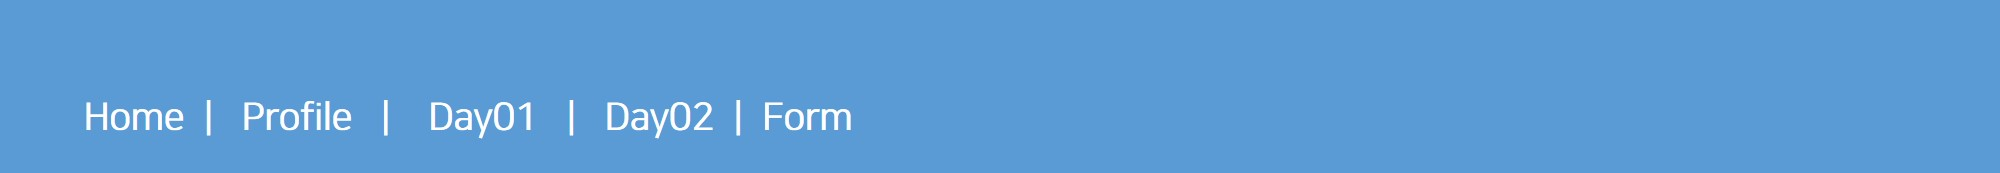
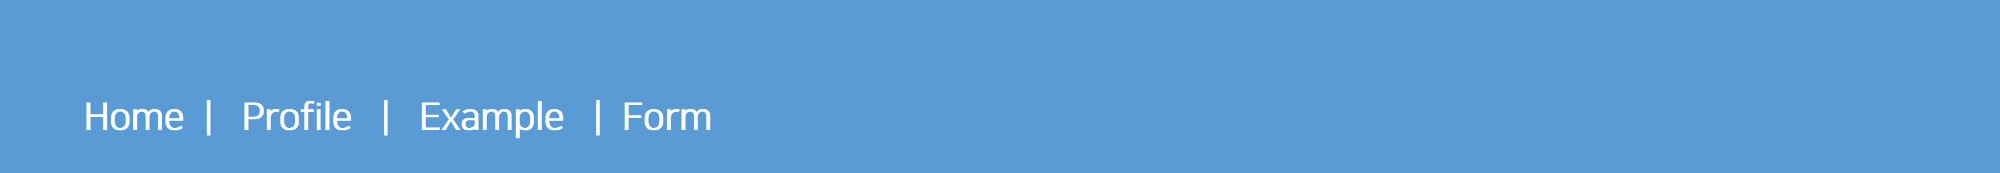
2019-07-23 Uhm's class

Changed region(s): [[0.186, 0.578, 0.434, 0.7803]]

diff --git a/webbasic/WebContent/form.html b/webbasic/WebContent/form.html
@@ -1,0 +1,101 @@
+<!doctype html>
+<html> 
+    <head>
+         <meta charset = "utf-8">
+         <title>입력폼</title>
+    </head>
+    <body>
+<img src = "img/menu.jpg" alt = "메뉴판" usemap = "#favorites">
+<map name = "favorites">
+   <area shape = "rect" coords = "62,94,191,150" href="index.html" alt="홈">
+   <area shape = "rect" coords = "233,94,366,150" href="profile.html" alt="홈">
+   <area shape = "rect" coords = "412,94,545,150" href="day01.html" alt="홈">
+   <area shape = "rect" coords = "592,94,710,150" href="day02.html" alt="홈">
+</map>
+
+<form>
+  <fieldset>
+    <legend>로그인 정보</legend>
+    <table>
+      <tr>
+        <td align=right><label for="user-id" >아이디 </label></td>
+        <td><input type="text" id="user-id" placeholder= "아이디입력" readonly="readonly"></td>
+      </tr>
+      <tr>
+        <td align=right><label for="pwd1" >비밀번호 </label></td>
+        <td><input type="password" id="pwd1"></td>
+      </tr>
+      <tr>
+        <td  align=right><label for="pwd2">비밀번호확인 </label></td>
+        <td><input type="password" id="pwd2"></td>
+      </tr>
+    </table>
+  </fieldset>
+  <fieldset>
+    <legend>개인 정보</legend>
+    <ul>
+      <li>
+        <label for="user-name">이름 </label>
+        <input type="text" id="user-name" autofocus required>
+      </li>
+      <li>
+        <label for="mail">메일 주소</label>
+        <input type="email" id="mail">
+      </li>
+      <li>
+        <label for="phone">연락처</label>
+        <input type="tel" id="phone">
+      </li>
+      <li>
+        <label for="homep">블로그/홈페이지</label>
+        <input type="url" id="homep">
+      </li>
+    </ul>
+  </fieldset>
+<input type="search">  <input type="submit" value="검색">
+<input type="submit" value="가입하기">
+<br>
+<label> 주문갯수 1: <input type="number" min = 1 max = 5 value = 1></label>
+<br>
+<label> 주문갯수 2: <input type="range" min = 1 max = 5></label>
+
+<fieldset>
+<legend>신청 과목 </legend>
+<label>신청할 과목 선택(1과목) </label><br>
+<input type="radio" name="subject" value="speaking">회화 
+<input type="radio" name="subject" value="grammar">문법
+<input type="radio" name="subject" value="writing">작문
+</fieldset>
+
+<fieldset>
+<legend>메일링 </legend>
+<label>메일수신할 뉴스주제(중복가능) </label><br>
+<input type="checkbox" name="mailing1" value="news">해외단신 
+<input type="checkbox" name="mailing2" value="dialog">5분회화
+<input type="checkbox" name="mailing3" value="pops">모닝팝스
+</fieldset>
+<input type = "color"><br>
+조회기간 : <input type = "date" id = "start"> ~ <input type = "date" id = "end"> 
+<br>
+조회시간 : <input type = "time" id = "start1"> ~ <input type = "time" id = "end1">
+<input type = "image" src = "img/btn1.jpg"> 
+
+<select id = "class">
+<optgroup label = "공과대학">
+     <option value="arch">건축공학과</option>
+     <option value="comp">컴퓨터공학과</option>
+     <option value="meca" selected>기계공학과</option>
+</optgroup>
+<optgroup label = "인문대학">
+     <option value="arch">건축공학과</option>
+     <option value="comp">컴퓨터공학과</option>
+     <option value="meca" selected>기계공학과</option>
+</optgroup>
+</select>
+<textarea cols=100 rows=10 id = "content"> </textarea>
+<progress value = 30 max = 100></progress>
+<meter value = 0.8></meter>
+</form>
+
+   </body>
+</html>

diff --git a/webbasic/WebContent/text-1.html b/webbasic/WebContent/text-1.html
@@ -1,0 +1,57 @@
+<!DOCTYPE html>
+<html lang="ko">
+<head>
+    <meta charset="utf-8">
+    <title>제주 이색 여행지</title>
+</head>
+<body>
+    <h1>제주 이색 여행지</h1>
+    <h2>야외 텐트를 닮은 건축물 <mark>"테쉬폰"</mark></h2>
+    <p><strong><i><q>아일랜드 출신 임피제 신부</i></q></strong>가 1954년 제주에 오면서 목장 숙소로 짓기 시작한 후 사료공장, 성당으로 활용됐습니다.</p>
+    <p>제주에서 점차 다른 지방으로 보급됐지만 현재 제주에만 건축물이 남아있는데, <br>
+    <span style = "color: blue;">국내 근현대 건축사의 한 페이지를 보여주는 가치를 지닌다</span>고 전문가들은 평가합니다.</p>
+    <hr>
+    <blockquote>
+      성이시돌목장은 제주특별자치도 제주시 한림읍 금악리에 있는 목장이다. 특히 이시돌목장은 제주 지역 최초의 <ruby>전기업목장(全企業牧場)<rt>제주시 한림읍 금악리</rt></ruby>으로 1961년 11월 말에 세워 양돈 사업을 실시하였으며 면양을 사육하였던 것으로 알려져 있다. 이시돌목장의 특색있는 건축양식으로 테쉬폰도 유명하다. (출처:향토문화전자대전)
+    </blockquote>
+<br>
+<hr>
+<a href = "https://blog.naver.com/ygboy031/220935887974" target = "_blank">
+<figure>
+     <img src = "img/spring.jpg">
+     <figcaption>봄사진 </figcaption>
+</figure>
+</a>
+<h2> 1박 2일 가족여행 코스 </h2>
+<dl>
+   <dt> 1일차 </dt>
+           <dd>해녀박물관 </dd>
+           <dd>낚시체험 </dd>      
+</dl>
+<table border = 1>
+<colgroup>
+     <col style = "width: 100px;">
+     <col style = "width: 100px;">
+     <col style = "width: 100px;">
+     <col style = "width: 100px;">
+</colgroup>
+<caption>
+자기소개 표
+</caption>
+    <tr>
+        <th>이름</th>
+        <td></td>
+        <th>연락처</th>
+        <td></td>     
+    </tr>
+    <tr>
+        <th>주소</th>
+        <td colspan = 3></td>
+    </tr>
+    <tr>
+        <th>자기소개</th>
+        <td colspan = 3></td>
+    </tr>
+</table>
+</body>
+</html>

diff --git a/webbasic/WebContent/day02.html b/webbasic/WebContent/day02.html
@@ -1,0 +1,32 @@
+<!doctype html>
+<html>
+    <head>
+        <meta charset = "utf-8">
+        <title> Day02 </title>    
+    </head>
+    <body>
+        <h1> 앵커만들기 </h1>
+         <p> 웹문서가 너무 긴 경우... </p>
+         <ul>
+              <li><a href = "#menu1">메뉴1</a></li>
+              <li><a href = "#menu2">메뉴2</a></li>
+              <li><a href = "#menu3">메뉴3</a></li>  
+<hr>
+<br><br><br><br><br><br>
+<br><br><br><br><br><br>    
+<h2 id = "menu1"> 메뉴1 </h2>
+<p>웹 문서가 너무 길어 앵커를 위치 시키려고 합니다. 웹 문서가 너무 길어 앵커를 위치 시키려고 합니다. 웹 문서가 너무 길어 앵커를 위치 시키려고 합니다. </p>
+
+<br><br><br><br><br><br>
+<br><br><br><br><br><br>    
+<h2 id = "menu2"> 메뉴2</h2>
+<p>웹 문서가 너무 길어 앵커를 위치 시키려고 합니다. 웹 문서가 너무 길어 앵커를 위치 시키려고 합니다. 웹 문서가 너무 길어 앵커를 위치 시키려고 합니다. </p>
+
+<br><br><br><br><br><br>  
+<br><br><br><br><br><br>  
+<h2 id = "menu3"> 메뉴3</h2>
+<p>웹 문서가 너무 길어 앵커를 위치 시키려고 합니다. 웹 문서가 너무 길어 앵커를 위치 시키려고 합니다. 웹 문서가 너무 길어 앵커를 위치 시키려고 합니다. </p>
+<br><br><br><br><br><br>  
+<br><br><br><br><br><br> 
+</body>
+</html>

diff --git a/webbasic/WebContent/text-3.html b/webbasic/WebContent/text-3.html
@@ -1,0 +1,19 @@
+<!DOCTYPE html>
+<html lang="ko">
+<head>
+    <meta charset="utf-8">
+    <title>제주 이색 여행지</title>
+    <style>
+        p { 
+            font-size:16px;  /* 글자 크기 */  
+            line-height:25px;  /* 줄 간격 */
+        }
+    </style>
+</head>
+<body>
+    <h2>제주 이색 여행지 - 이중섭 거리</h2>
+    <p><strong>주말</strong>마다 <b>'서귀포문화예술디자인시장'</b>이 열립니다.</p>
+    <p><em>'아트마켓'</em>이라고도 부르는데, <i>문화예술체험</i>이나 <i>공연관람</i>을 할 수도 있고 <br>
+     작가들이 직접 만든 창작예술품 등을 판매하기도 합니다.</p>
+</body>
+</html>

diff --git a/webbasic/WebContent/index.html b/webbasic/WebContent/index.html
@@ -1,4 +1,4 @@
-<!DOCTYPE html>
+<!DOCTYPE html>
 <html>
 <head>
 <meta charset="UTF-8">
@@ -8,6 +8,10 @@
 <img src = "img/menu.jpg" alt = "메뉴판" usemap = "#favorites">
 <map name = "favorites">
    <area shape = "rect" coords = "62,94,191,150" href="index.html" alt="홈">
+   <area shape = "rect" coords = "233,94,366,150" href="profile.html" alt="홈">
+   <area shape = "rect" coords = "412,94,545,150" href="day01.html" alt="홈">
+   <area shape = "rect" coords = "592,94,710,150" href="day02.html" alt="홈">
+
 </map>
 
 <h1> 나의 홈페이지 </h1>

diff --git a/webbasic/WebContent/README.md b/webbasic/WebContent/README.md
@@ -1,0 +1,2 @@
+# root
+ 
